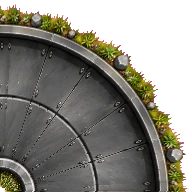
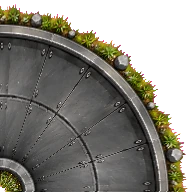
Стальная дорожка: симметричное освещение кусков, близкие повороты не перекрывают друг друга
Claude-Session: https://claude.ai/code/session_013R86rVRDV7uvtfdFLL6VJw

diff --git a/sw.js b/sw.js
@@ -1,6 +1,6 @@
-/* «Две базы» offline cache, version 2026.11.13-1234. A new version of this file makes phones fetch the new game;
+/* «Две базы» offline cache, version 2026.11.13-1249. A new version of this file makes phones fetch the new game;
    files whose content didn't change are copied from the old cache instead of downloaded again. */
-const V='dvebazy-2026.11.13-1234',H={"base_blue.webp": "3fa30d2184", "base_red.webp": "7dbdedfcd1", "crater.webp": "f8f526da4a", "crystal.webp": "3a4d69ffd7", "crystal_empty.webp": "e0bfd176b7", "desert.mp3": "4e820be7a4", "field_empty.webp": "1a89de323f", "field_full.webp": "5ce65390f6", "forest.mp3": "4d73b83bec", "hq_blue.webp": "9fd8e7e807", "hq_red.webp": "971d8873b5", "hv_e_blue.webp": "0fb54e58f2", "hv_e_red.webp": "dadb0cb8e0", "hv_f_blue.webp": "0eaca5d65e", "hv_f_red.webp": "1a6f973922", "intro.mp3": "d06e8482e9", "lost.mp3": "640926f4fa", "nuke.webp": "3bd289d94c", "ref_blue.webp": "55d23168b2", "ref_red.webp": "3c357584ff", "rocket.webp": "071c1a603f", "titan.mp3": "74a7fba796", "titan_hull_blue.webp": "b95fc02d02", "titan_hull_red.webp": "bc3479a55e", "titan_tur_blue.webp": "3a694cdb51", "titan_tur_red.webp": "4c836f3f95", "tw_can_blue.webp": "39c2cdb5df", "tw_can_red.webp": "11768d7b6d", "tw_mg_blue.webp": "f2a7462850", "tw_mg_red.webp": "b13edf318a", "tw_rkt_blue.webp": "890841b140", "tw_rkt_red.webp": "1cd20dd65c", "tw_tes_blue.webp": "f8dbac1346", "tw_tes_red.webp": "35dace5877", "victory.mp3": "86da21c965", "wave.webp": "02e3191a09", "winter.mp3": "c049c90e71", "voice_balist1.mp3": "a809bffd15", "voice_batk1.mp3": "bc1cce2b93", "voice_bomb1.mp3": "3e85b9b9dc", "voice_first1.mp3": "5d89f62894", "voice_first2.mp3": "6f591c10d3", "voice_first3.mp3": "de270f2917", "voice_first4.mp3": "52d929dd20", "voice_first5.mp3": "475b1aa197", "voice_first6.mp3": "d2ce90c984", "voice_first7.mp3": "222510fe73", "voice_hvdie1.mp3": "c1c6b9d714", "voice_loh1.mp3": "21e001d1e4", "voice_loh10.mp3": "41e66ff026", "voice_loh2.mp3": "e7da3dd047", "voice_loh3.mp3": "5cc145f5da", "voice_loh4.mp3": "58b7b9dbe7", "voice_loh5.mp3": "1426e425ce", "voice_loh6.mp3": "2053d0fb8a", "voice_loh7.mp3": "b546dc0fcb", "voice_loh8.mp3": "373d27d207", "voice_loh9.mp3": "ee76b7cbbf", "voice_lose1.mp3": "0965212c4d", "voice_lose2.mp3": "0272edf688", "voice_lose3.mp3": "fcb16aa0a5", "voice_lose4.mp3": "f4663fb4e3", "voice_lose5.mp3": "606ac4c1cf", "voice_lose6.mp3": "83a1fe1747", "voice_mazor1.mp3": "0a2f8341b5", "voice_mazor2.mp3": "2d0ef74267", "voice_mine2.mp3": "5ebf9d3ec6", "voice_mset1.mp3": "a35afbeb82", "voice_mvz1.mp3": "77e6ee09e0", "voice_mvz2.mp3": "fb090a12ca", "voice_nkb1.mp3": "52d38c9324", "voice_nkb2.mp3": "01c40b5760", "voice_nkb3.mp3": "39fe27bdf7", "voice_nkb4.mp3": "64aef97f88", "voice_nkb5.mp3": "4d31a020df", "voice_nkb6.mp3": "789a890588", "voice_nuke2.mp3": "8ca89b5589", "voice_ogon1.mp3": "c9d67acb12", "voice_orud1.mp3": "3026d1e2ee", "voice_rzap1.mp3": "2e0d131a35", "voice_vrag1.mp3": "028cb3b269", "voice_vrag2.mp3": "2e10b723e9", "voice_vrag3.mp3": "6079f5e810", "voice_vrag4.mp3": "8f7fa0ef37", "voice_vrag5.mp3": "e94b070c67", "voice_vrag6.mp3": "cb9915cce8", "voice_vrag7.mp3": "7ed2c5a974", "voice_vrag8.mp3": "48edfe60b2", "voice_vrag9.mp3": "8b0f4d86ee", "voice_win1.mp3": "f3f0a603b5", "voice_win2.mp3": "12950c5326", "voice_win3.mp3": "62d5e009ec", "voice_win4.mp3": "c6f262900b", "voice_win5.mp3": "63d2a5f9c8", "voice_bomb2.mp3": "2a7dccab6b", "voice_bomb3.mp3": "9939c42554", "voice_bomb4.mp3": "ae8e689c51", "voice_bomb5.mp3": "a8e38dbf99", "voice_bomb6.mp3": "5ad7691213", "voice_bomb7.mp3": "68265021c3", "voice_mset2.mp3": "e2e92e7433", "voice_mset3.mp3": "a9811a1536", "voice_mset4.mp3": "8173956a14", "voice_tout1.mp3": "e36d93eff4", "voice_tout2.mp3": "32e7428350", "voice_tout3.mp3": "9fca62bcdf", "voice_tout4.mp3": "3e314749bc", "voice_tout5.mp3": "5fcc940e4d", "voice_tout6.mp3": "fac430fb0f", "voice_tout7.mp3": "979fea3bea", "voice_tout8.mp3": "01a95c5d7b", "voice_tout9.mp3": "6bfcb1b4f9", "voice_etout1.mp3": "43c1b6aaf3", "voice_etout2.mp3": "bd5d728dc7", "voice_etout3.mp3": "9fd5dfc497", "voice_etout4.mp3": "781294a546", "voice_etout5.mp3": "d430e427bc", "voice_orud2.mp3": "aa9e1b81be", "voice_orud3.mp3": "705171a146", "voice_orud4.mp3": "238aca5997", "voice_orud5.mp3": "339952603c", "voice_tlow1.mp3": "785ec7eec0", "voice_tlow2.mp3": "96d601ac89", "voice_tlow3.mp3": "74a22eaaeb", "voice_tlow4.mp3": "fe8e1de87d", "voice_tlow5.mp3": "3cc923bbde", "voice_tlow6.mp3": "4c544afc32", "voice_tlow7.mp3": "32148d5608", "voice_tlow8.mp3": "aa26e23409", "voice_tlow9.mp3": "3085b4d856", "sw2_grass.webp": "ae9bb5b54f", "sw2_mud.webp": "be0d1aced4", "sw2_water.webp": "e2eb74a170", "sw2_atlas.webp": "427607d22b", "sw2_atlas2.webp": "8e1c286c2d", "sw2_pads.webp": "1d18fc9a44", "sw2_atlas3.webp": "28ae61a313", "campaign_map.webp": "a477e42c26", "camp_flags.webp": "bdd397d7fb", "gate_l.webp": "33dd6c659c", "gate_r.webp": "bce02067fe", "gate_logo.webp": "975690c1a2", "hg_icons_free.webp": "910e6c103f", "hg_icons_sup.webp": "25639c2240", "hg_icons_harv.webp": "787070f3e2", "hg_icons_tow.webp": "7943557806", "hg_icons_tit.webp": "2a0621a74b", "mrd_s.webp": "c7fba3da00", "mrd_c.webp": "213e4bfccc", "manifest.webmanifest": "7015537d8d", "icon-192.png": "3f01f503e0", "icon-512.png": "ea3305bba6", "icon-180.png": "5713f46e1f", "splash-512.png": "03f3510d8f"};
+const V='dvebazy-2026.11.13-1249',H={"base_blue.webp": "3fa30d2184", "base_red.webp": "7dbdedfcd1", "crater.webp": "f8f526da4a", "crystal.webp": "3a4d69ffd7", "crystal_empty.webp": "e0bfd176b7", "desert.mp3": "4e820be7a4", "field_empty.webp": "1a89de323f", "field_full.webp": "5ce65390f6", "forest.mp3": "4d73b83bec", "hq_blue.webp": "9fd8e7e807", "hq_red.webp": "971d8873b5", "hv_e_blue.webp": "0fb54e58f2", "hv_e_red.webp": "dadb0cb8e0", "hv_f_blue.webp": "0eaca5d65e", "hv_f_red.webp": "1a6f973922", "intro.mp3": "d06e8482e9", "lost.mp3": "640926f4fa", "nuke.webp": "3bd289d94c", "ref_blue.webp": "55d23168b2", "ref_red.webp": "3c357584ff", "rocket.webp": "071c1a603f", "titan.mp3": "74a7fba796", "titan_hull_blue.webp": "b95fc02d02", "titan_hull_red.webp": "bc3479a55e", "titan_tur_blue.webp": "3a694cdb51", "titan_tur_red.webp": "4c836f3f95", "tw_can_blue.webp": "39c2cdb5df", "tw_can_red.webp": "11768d7b6d", "tw_mg_blue.webp": "f2a7462850", "tw_mg_red.webp": "b13edf318a", "tw_rkt_blue.webp": "890841b140", "tw_rkt_red.webp": "1cd20dd65c", "tw_tes_blue.webp": "f8dbac1346", "tw_tes_red.webp": "35dace5877", "victory.mp3": "86da21c965", "wave.webp": "02e3191a09", "winter.mp3": "c049c90e71", "voice_balist1.mp3": "a809bffd15", "voice_batk1.mp3": "bc1cce2b93", "voice_bomb1.mp3": "3e85b9b9dc", "voice_first1.mp3": "5d89f62894", "voice_first2.mp3": "6f591c10d3", "voice_first3.mp3": "de270f2917", "voice_first4.mp3": "52d929dd20", "voice_first5.mp3": "475b1aa197", "voice_first6.mp3": "d2ce90c984", "voice_first7.mp3": "222510fe73", "voice_hvdie1.mp3": "c1c6b9d714", "voice_loh1.mp3": "21e001d1e4", "voice_loh10.mp3": "41e66ff026", "voice_loh2.mp3": "e7da3dd047", "voice_loh3.mp3": "5cc145f5da", "voice_loh4.mp3": "58b7b9dbe7", "voice_loh5.mp3": "1426e425ce", "voice_loh6.mp3": "2053d0fb8a", "voice_loh7.mp3": "b546dc0fcb", "voice_loh8.mp3": "373d27d207", "voice_loh9.mp3": "ee76b7cbbf", "voice_lose1.mp3": "0965212c4d", "voice_lose2.mp3": "0272edf688", "voice_lose3.mp3": "fcb16aa0a5", "voice_lose4.mp3": "f4663fb4e3", "voice_lose5.mp3": "606ac4c1cf", "voice_lose6.mp3": "83a1fe1747", "voice_mazor1.mp3": "0a2f8341b5", "voice_mazor2.mp3": "2d0ef74267", "voice_mine2.mp3": "5ebf9d3ec6", "voice_mset1.mp3": "a35afbeb82", "voice_mvz1.mp3": "77e6ee09e0", "voice_mvz2.mp3": "fb090a12ca", "voice_nkb1.mp3": "52d38c9324", "voice_nkb2.mp3": "01c40b5760", "voice_nkb3.mp3": "39fe27bdf7", "voice_nkb4.mp3": "64aef97f88", "voice_nkb5.mp3": "4d31a020df", "voice_nkb6.mp3": "789a890588", "voice_nuke2.mp3": "8ca89b5589", "voice_ogon1.mp3": "c9d67acb12", "voice_orud1.mp3": "3026d1e2ee", "voice_rzap1.mp3": "2e0d131a35", "voice_vrag1.mp3": "028cb3b269", "voice_vrag2.mp3": "2e10b723e9", "voice_vrag3.mp3": "6079f5e810", "voice_vrag4.mp3": "8f7fa0ef37", "voice_vrag5.mp3": "e94b070c67", "voice_vrag6.mp3": "cb9915cce8", "voice_vrag7.mp3": "7ed2c5a974", "voice_vrag8.mp3": "48edfe60b2", "voice_vrag9.mp3": "8b0f4d86ee", "voice_win1.mp3": "f3f0a603b5", "voice_win2.mp3": "12950c5326", "voice_win3.mp3": "62d5e009ec", "voice_win4.mp3": "c6f262900b", "voice_win5.mp3": "63d2a5f9c8", "voice_bomb2.mp3": "2a7dccab6b", "voice_bomb3.mp3": "9939c42554", "voice_bomb4.mp3": "ae8e689c51", "voice_bomb5.mp3": "a8e38dbf99", "voice_bomb6.mp3": "5ad7691213", "voice_bomb7.mp3": "68265021c3", "voice_mset2.mp3": "e2e92e7433", "voice_mset3.mp3": "a9811a1536", "voice_mset4.mp3": "8173956a14", "voice_tout1.mp3": "e36d93eff4", "voice_tout2.mp3": "32e7428350", "voice_tout3.mp3": "9fca62bcdf", "voice_tout4.mp3": "3e314749bc", "voice_tout5.mp3": "5fcc940e4d", "voice_tout6.mp3": "fac430fb0f", "voice_tout7.mp3": "979fea3bea", "voice_tout8.mp3": "01a95c5d7b", "voice_tout9.mp3": "6bfcb1b4f9", "voice_etout1.mp3": "43c1b6aaf3", "voice_etout2.mp3": "bd5d728dc7", "voice_etout3.mp3": "9fd5dfc497", "voice_etout4.mp3": "781294a546", "voice_etout5.mp3": "d430e427bc", "voice_orud2.mp3": "aa9e1b81be", "voice_orud3.mp3": "705171a146", "voice_orud4.mp3": "238aca5997", "voice_orud5.mp3": "339952603c", "voice_tlow1.mp3": "785ec7eec0", "voice_tlow2.mp3": "96d601ac89", "voice_tlow3.mp3": "74a22eaaeb", "voice_tlow4.mp3": "fe8e1de87d", "voice_tlow5.mp3": "3cc923bbde", "voice_tlow6.mp3": "4c544afc32", "voice_tlow7.mp3": "32148d5608", "voice_tlow8.mp3": "aa26e23409", "voice_tlow9.mp3": "3085b4d856", "sw2_grass.webp": "ae9bb5b54f", "sw2_mud.webp": "be0d1aced4", "sw2_water.webp": "e2eb74a170", "sw2_atlas.webp": "427607d22b", "sw2_atlas2.webp": "8e1c286c2d", "sw2_pads.webp": "1d18fc9a44", "sw2_atlas3.webp": "28ae61a313", "campaign_map.webp": "a477e42c26", "camp_flags.webp": "bdd397d7fb", "gate_l.webp": "33dd6c659c", "gate_r.webp": "bce02067fe", "gate_logo.webp": "975690c1a2", "hg_icons_free.webp": "910e6c103f", "hg_icons_sup.webp": "25639c2240", "hg_icons_harv.webp": "787070f3e2", "hg_icons_tow.webp": "7943557806", "hg_icons_tit.webp": "2a0621a74b", "mrd_s.webp": "9e3aaed637", "mrd_c.webp": "9969b8a8a2", "manifest.webmanifest": "7015537d8d", "icon-192.png": "3f01f503e0", "icon-512.png": "ea3305bba6", "icon-180.png": "5713f46e1f", "splash-512.png": "03f3510d8f"};
 self.addEventListener('install',e=>{self.skipWaiting();e.waitUntil((async()=>{const c=await caches.open(V);let oldH={},old=null;
  for(const k of await caches.keys()){if(k===V)continue;const o=await caches.open(k);const r=await o.match('__hashes');if(r){try{oldH=await r.json();old=o;}catch(_){}}}
  await Promise.all(Object.keys(H).map(async f=>{try{if(old&&oldH[f]===H[f]){const r=await old.match(f);if(r){await c.put(f,r);return;}}await c.add(new Request(f,{cache:'reload'}));}catch(_){}}));

diff --git a/index.html b/index.html
@@ -1308,7 +1308,12 @@ function drawRuts(b,tp){const W=26,S=RUT.s,C=RUT.c,k=W/192,n=tp.length;if(n<2)re
  const pat=b.createPattern(S,'repeat');
  for(let i=0;i<n-1;i++){const [ux,uy,l]=dir(i);if(l<0.5)continue;const h=W/2,e0=i>0?(sq(i)?-h:h):0,e1=i<n-2?(sq(i+1)?-h:h):0;
   b.save();b.transform(ux,uy,-uy,ux,tp[i][0],tp[i][1]);pat.setTransform(new DOMMatrix().translate(0,-h).scale(k));b.fillStyle=pat;b.fillRect(-e0,-h,l+e0+e1,W);b.restore();}
- for(let i=1;i<n-1;i++){if(!sq(i))continue;const a=dir(i-1),c=dir(i);b.save();b.transform(a[0],a[1],c[0],c[1],tp[i][0],tp[i][1]);b.drawImage(C,-96*k,-96*k,192*k,192*k);b.restore();}}
+ /* corners: when the run between two turns is shorter than the track is wide, each corner is cut at the middle of that run so neither covers the other */
+ for(let i=1;i<n-1;i++){if(!sq(i))continue;const a=dir(i-1),c=dir(i);b.save();
+  const cut=(j,sgn)=>{const [ux,uy,l]=dir(j);if(l>=W)return;const mx=(tp[j][0]+tp[j+1][0])/2,my=(tp[j][1]+tp[j+1][1])/2,px=-uy*99,py=ux*99,bx=ux*sgn*99,by=uy*sgn*99;
+   b.beginPath();b.moveTo(mx+px,my+py);b.lineTo(mx-px,my-py);b.lineTo(mx-px+bx,my-py+by);b.lineTo(mx+px+bx,my+py+by);b.closePath();b.clip();};
+  if(i>1&&sq(i-1))cut(i-1,1);if(i<n-2&&sq(i+1))cut(i,-1);
+  b.transform(a[0],a[1],c[0],c[1],tp[i][0],tp[i][1]);b.drawImage(C,-96*k,-96*k,192*k,192*k);b.restore();}}
 /* «Болото 2» (test theme): painted textures and objects supplied by the player, placed by the same swamp code */
 const SW2={grass:new Image(),mud:new Image(),water:new Image(),atlas:new Image(),atlas2:new Image(),pads:new Image(),atlas3:new Image(),
  /* GPT decor sheets (step work, cut from magenta): rocks, plants, water plants */
@@ -2956,9 +2961,9 @@ window.__dbg={get W(){return W},simStep,doCmd,botThink,packSnap,onSnap,setCode:c
 requestAnimationFrame(frame);
 </script>
 
-<div id="appVer">v2026.11.13-1234</div>
+<div id="appVer">v2026.11.13-1249</div>
 <script>
-window.APP_VERSION='2026.11.13-1234';
+window.APP_VERSION='2026.11.13-1249';
 /* the version label only on the lobby screen */
 setInterval(()=>{const l=document.getElementById('lobby'),v=document.getElementById('appVer');if(l&&v)v.style.display=l.hidden?'none':'';},500);
 if('serviceWorker' in navigator){let reloaded=false;
